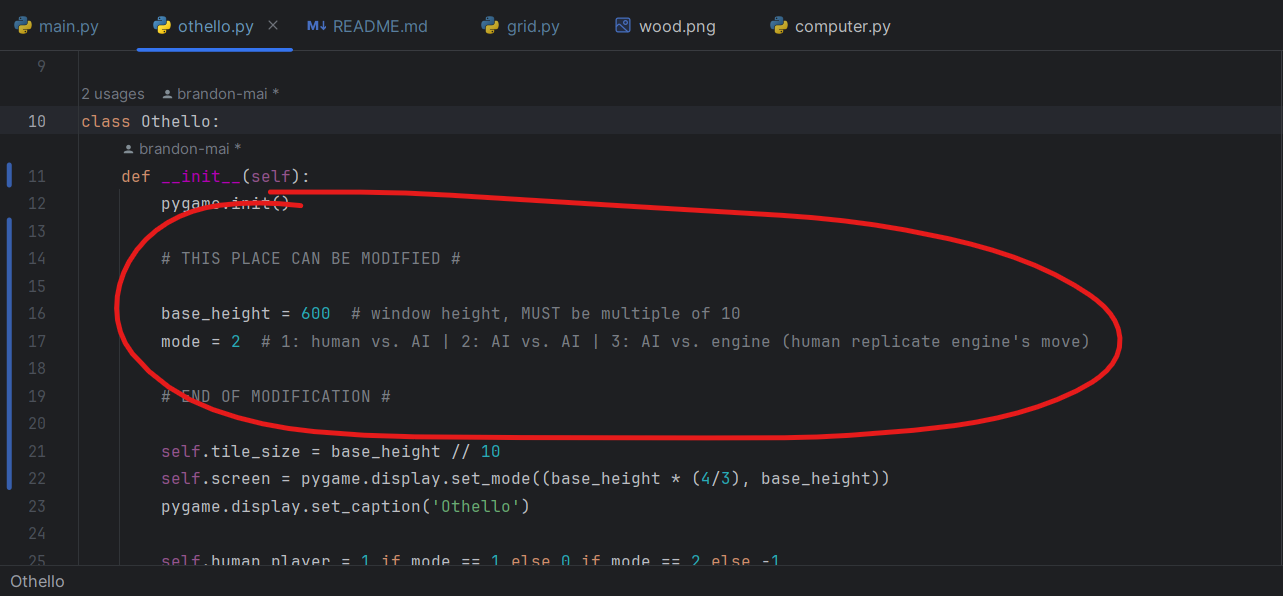
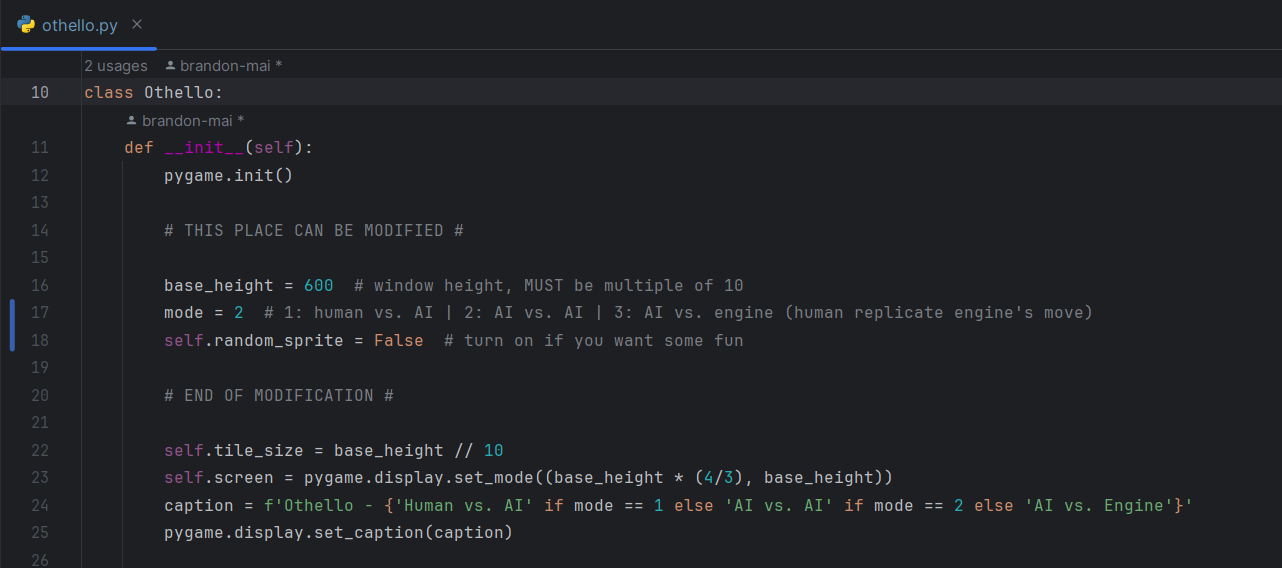
random sprite lol

diff --git a/grid.py b/grid.py
@@ -1,5 +1,6 @@
-from utility_functions import *
 import copy
+import random
+from utility_functions import *
 
 # Grid and Token classes definition
 # do not touch this file, my man
@@ -16,10 +17,12 @@ class Grid:
         self.blacktoken = loadImages('assets/BlackToken.png', size)
         self.transitionWhiteToBlack = [loadImages(f'assets/WhiteToBlack{i}.png', self.size) for i in range(1, 4)]
         self.transitionBlackToWhite = [loadImages(f'assets/BlackToWhite{i}.png', self.size) for i in range(1, 4)]
-        self.bg = self.loadBackGroundImages()
 
         self.tokens = {}
 
+        self.sprite_image = 'assets/wood.png'
+        self.tile_sprite = ('A0', 'B0')
+        self.bg = self.loadBackGroundImages()
         self.gridBg = self.createbgimg()
 
         self.gridLogic = self.regenGrid(self.y, self.x)
@@ -29,13 +32,20 @@ class Grid:
 
         self.font = pygame.font.SysFont('Arial', self.tile_size // 4, True, False)
 
-    def newGame(self):
+    def newGame(self, random_sprite):
         self.tokens.clear()
         self.gridLogic = self.regenGrid(self.y, self.x)
+        if random_sprite:
+            self.sprite_image = random.choice(('assets/wood.png', 'assets/demo_spritesheet.png'))
+            alpha = random.choice((('A', 'B'), ('F', 'G')))
+            num = random.choice(range(3))
+            self.tile_sprite = (f'{alpha[0] + str(num)}', f'{alpha[1] + str(num)}')
+            self.bg = self.loadBackGroundImages()
+            self.gridBg = self.createbgimg()
 
     def loadBackGroundImages(self):
         alpha = 'ABCDEFGHI'
-        spriteSheet = pygame.image.load('assets/wood.png').convert_alpha()
+        spriteSheet = pygame.image.load(self.sprite_image).convert_alpha()
         imageDict = {}
         for i in range(3):
             for j in range(7):
@@ -43,7 +53,7 @@ class Grid:
         return imageDict
 
     def createbgimg(self):
-        t1, t2 = 'A0', 'B0'  # tile squares
+        t1, t2 = self.tile_sprite  # tile squares
         s1, s2, s3, s4 = 'D0', 'E1', 'D2', 'C1'  # side squares, clockwise
         c1, c2, c3, c4 = 'C0', 'E0', 'E2', 'C2'  # corner squares, clockwise
         gridBg = [

diff --git a/othello.py b/othello.py
@@ -14,7 +14,8 @@ class Othello:
         # THIS PLACE CAN BE MODIFIED #
 
         base_height = 600  # window height, MUST be multiple of 10
-        mode = 1  # 1: human vs. AI | 2: AI vs. AI | 3: AI vs. engine (human replicate engine's move)
+        mode = 2  # 1: human vs. AI | 2: AI vs. AI | 3: AI vs. engine (human replicate engine's move)
+        self.random_sprite = False  # turn on if you want some fun
 
         # END OF MODIFICATION #
 
@@ -99,7 +100,7 @@ class Othello:
                     if self.gameOver:
                         x, y = pygame.mouse.get_pos()
                         if x >= tile * 4 and x <= tile * 6 and y >= tile * 5 and y <= tile * 6:
-                            self.grid.newGame()
+                            self.grid.newGame(self.random_sprite)
                             self.gameOver = False
                             self.currentPlayer = self.player1
                             self.recent_move = None
@@ -120,8 +121,8 @@ class Othello:
                     self.currentPlayer *= -1
                 if self.currentPlayer == self.player_AI_min:
 
-                    cell, score = self.computerPlayer.computerHard(self.grid.gridLogic, coinParity, 3, -64, 64, self.player_AI_min)
-                    # cell, score = self.computerPlayer.computerRandom(self.grid.gridLogic, self.player_AI_min)
+                    # cell, score = self.computerPlayer.computerHard(self.grid.gridLogic, coinParity, 3, -64, 64, self.player_AI_min)
+                    cell, score = self.computerPlayer.computerRandom(self.grid.gridLogic, self.player_AI_min)
 
                     self.grid.insertToken(self.grid.gridLogic, self.currentPlayer, cell[0], cell[1])
                     self.recent_move = cell

diff --git a/README.md b/README.md
@@ -4,11 +4,10 @@
 
 <img src="attachments/resize_and_mode.png">
 
-You can now resize the game window and select the game mode!
-
-To resize the window, modify the value of `base_height` to something a multiple of 10.
-
-To select the game mode, modify the value of `mode` accordingly.
+Change these settings in othello.py to your liking!
+- To resize the window, modify the value of `base_height` to something a multiple of 10.
+- To select the game mode, modify the value of `mode` accordingly.
+- To get new board design every game restart, change `random_sprite` to True
 <br>
 <br>
 <br>
